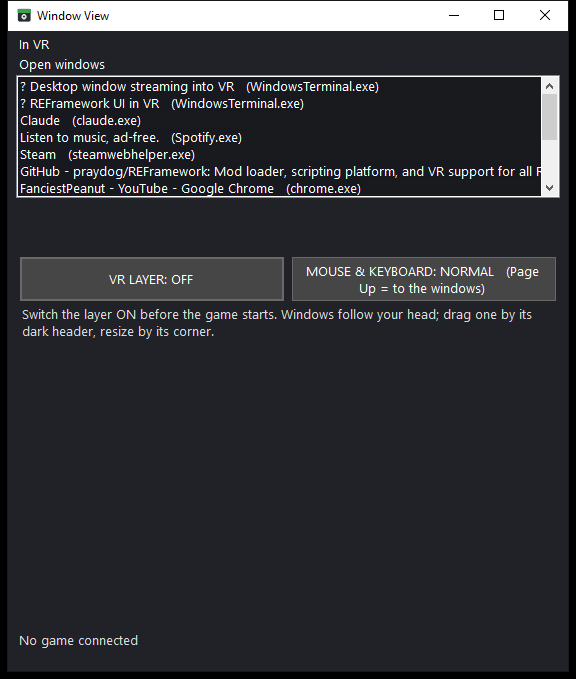
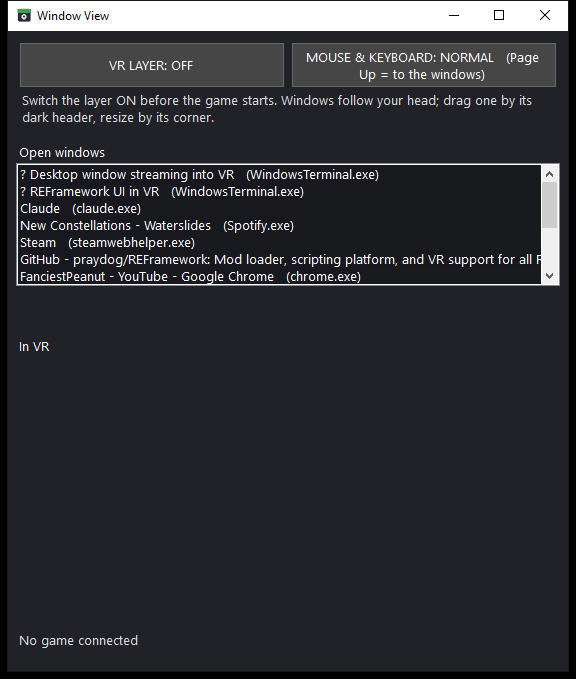
Window: the top strip really at the top (dock order), new photo

Changed region(s): [[0.0, 0.0619, 1.0, 0.5258]]

diff --git a/app/ViewUi.cs b/app/ViewUi.cs
@@ -70,7 +70,6 @@ class ViewUi : Form {
         hint.ForeColor = Color.Gainsboro;
         top.Controls.Add(hint, 0, 1);
         top.SetColumnSpan(hint, 2);
-        Controls.Add(top);
 
         var mid = new Panel();
         mid.Dock = DockStyle.Top;
@@ -99,14 +98,11 @@ class ViewUi : Form {
         mid.Controls.Add(openList);
         mid.Controls.Add(btns);
         mid.Controls.Add(openLabel);
-        Controls.Add(mid);
-        mid.BringToFront();
 
         status.Dock = DockStyle.Bottom;
         status.Height = 44;
         status.Padding = new Padding(8, 4, 8, 4);
         status.ForeColor = Color.Gainsboro;
-        Controls.Add(status);
 
         var rowsLabel = new Label();
         rowsLabel.Text = "In VR";
@@ -118,12 +114,14 @@ class ViewUi : Form {
         rows.WrapContents = false;
         rows.AutoScroll = true;
         rows.Padding = new Padding(8, 0, 8, 0);
+        // WinForms lays docked controls out from the END of this list to the front, so the order here is: top strip
+        // first, then the open-window list, then the "In VR" heading, the status line at the bottom, the rows filling the rest
+        Controls.Clear();
         Controls.Add(rows);
+        Controls.Add(status);
         Controls.Add(rowsLabel);
-        rows.BringToFront();
-        rowsLabel.BringToFront();
-        mid.BringToFront();
-        top.BringToFront();
+        Controls.Add(mid);
+        Controls.Add(top);
 
         desk.Load();
         input.OnChanged += delegate(bool on) { try { BeginInvoke(new Action(ShowInput)); } catch (Exception) { } };
